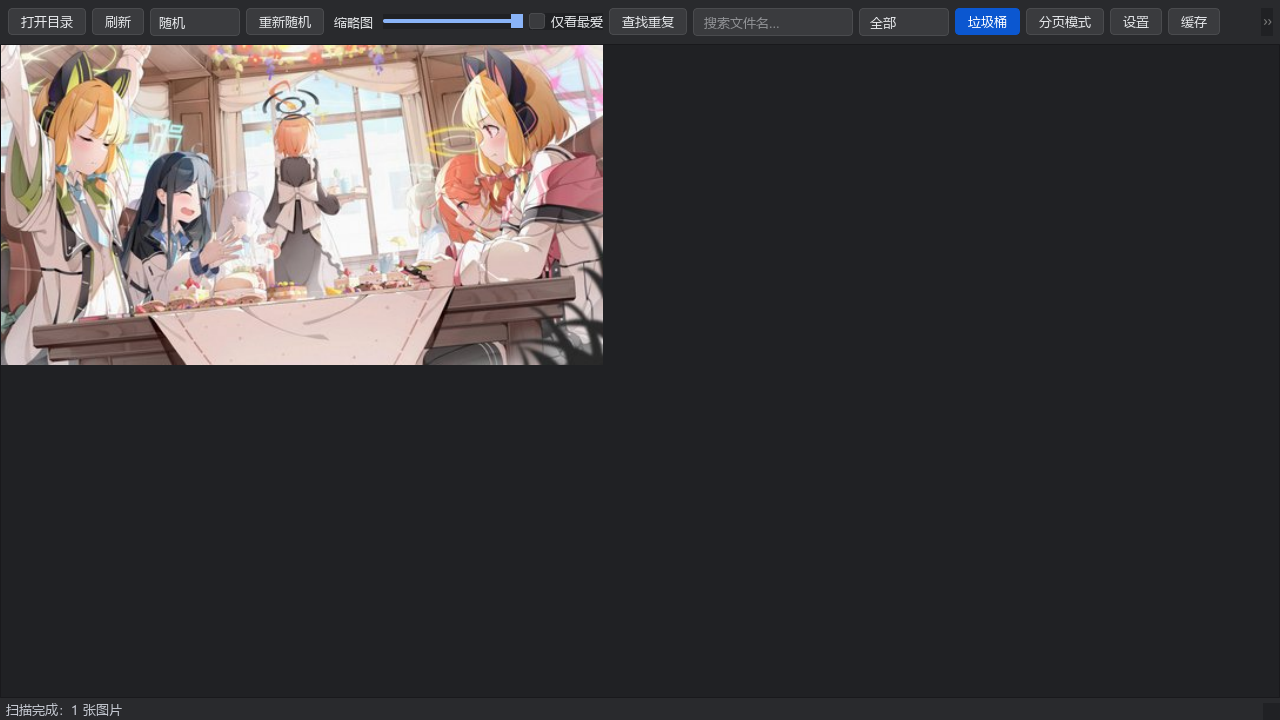
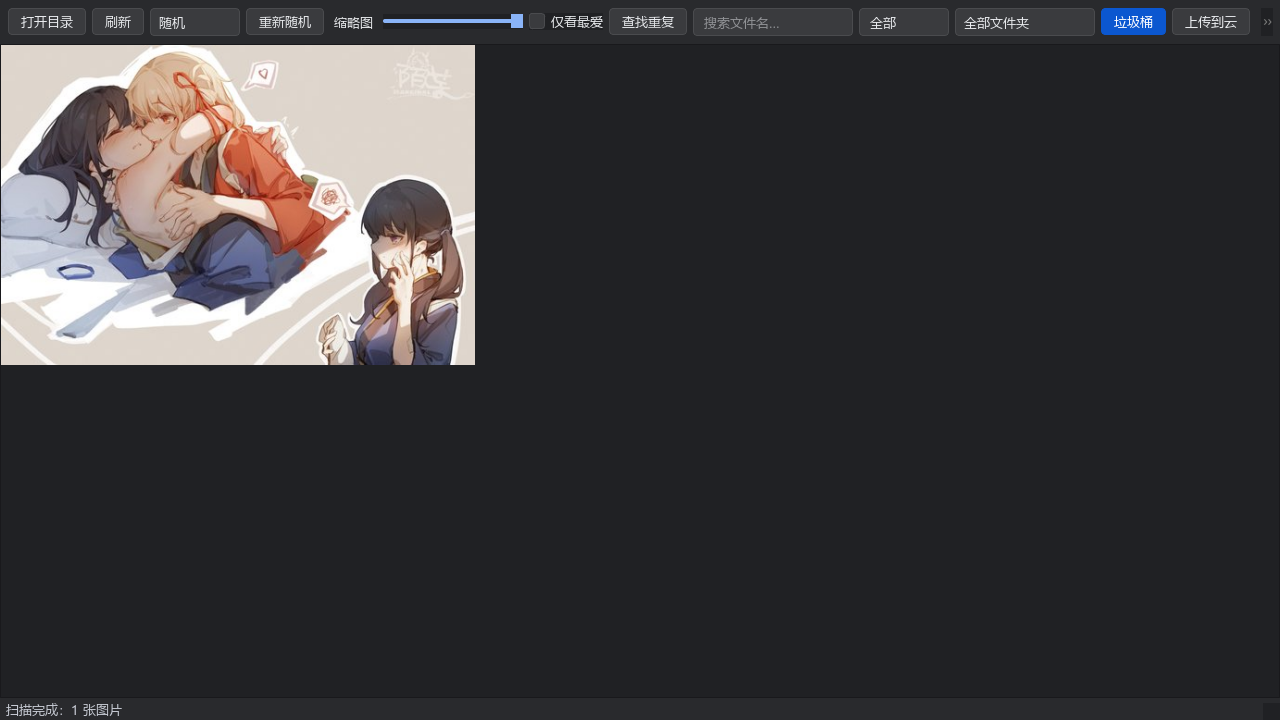
docs: 丰富介绍文档与截图(11张全功能截图, README/USER_GUIDE 扩充) (测试版暂不推送)

Changed region(s): [[0.0, 0.0611, 0.4688, 0.5194], [0.75, 0.0, 0.9688, 0.0611], [0.1875, 0.4889, 0.2188, 0.5194]]

diff --git a/README.md b/README.md
@@ -14,9 +14,17 @@
 
 ## 界面预览
 
-**图片墙（默认）** —— justified 无缝拼接，不显示文件名，滚轮加速、方向键导航：
+**启动闪屏** —— 启动即拉起 Logo，重型依赖延迟加载，主窗秒级呈现：
+
+![启动闪屏](docs/images/00_splash.png)
+
+**图片墙（默认）** —— justified 无缝拼接、不显示文件名；工具栏含 搜索 / 长宽比 / 文件夹 三重筛选：
 
 ![图片墙](docs/images/01_wall.png)
+
+**图片墙多选** —— Ctrl/Shift 多选、右键预选（金色选框），批量操作：
+
+![图片墙多选](docs/images/01b_wall_multisel.png)
 
 **分页模式** —— 每张卡片带信息行与基础功能按钮（★最爱 / 存 / 拷 / 位 / 移）：
 
@@ -26,7 +34,7 @@
 
 ![大图浏览器](docs/images/03_viewer.png)
 
-**重复图片检测** —— pHash 簇代表聚类，分组并排预览，一键保留最大/最新：
+**重复图片检测** —— pHash 簇代表聚类，分组并排预览，一键保留最大/最新，可重新检测：
 
 ![重复检测](docs/images/04_duplicates.png)
 
@@ -37,6 +45,18 @@
 **缓存管理** —— 缓存存本地用户目录，云同步目录零流量：
 
 ![缓存管理](docs/images/06_cache.png)
+
+**上传到云** —— 多线程增量上传，三层去重跳过，进度实时：
+
+![上传到云](docs/images/07_upload.png)
+
+**程序设置** —— 目录 / 查重阈值 / 线程数 / 外链有效期 / 启动行为等均可调：
+
+![程序设置](docs/images/08_settings.png)
+
+**在线库（OSS）** —— 整桶列举 800+ 张，IMG 签名缩略图，原图按需加载：
+
+![在线库](docs/images/09_online.png)
 
 ## 功能特性
 

diff --git a/docs/USER_GUIDE.md b/docs/USER_GUIDE.md
@@ -1,6 +1,40 @@
 # 用户指南
 
-千寻图片查看器 v1.0.0 · 版权所有 © 羡林i (Y_XianLin)
+千寻图片查看器 v1.3.0 · 版权所有 © 羡林i (Y_XianLin)
+
+## 0. 界面速览
+
+启动闪屏 → 主窗体：
+
+![闪屏](images/00_splash.png)
+
+图片墙（默认）与多选：
+
+![图片墙](images/01_wall.png)
+
+![多选](images/01b_wall_multisel.png)
+
+分页模式（卡片按钮行）：
+
+![分页](images/02_page.png)
+
+大图浏览器：
+
+![大图](images/03_viewer.png)
+
+重复面板 / 垃圾桶 / 缓存 / 上传 / 设置 / 在线库：
+
+![重复](images/04_duplicates.png)
+
+![垃圾桶](images/05_trash.png)
+
+![缓存](images/06_cache.png)
+
+![上传](images/07_upload.png)
+
+![设置](images/08_settings.png)
+
+![在线库](images/09_online.png)
 
 ## 1. 启动与加载图片
 
